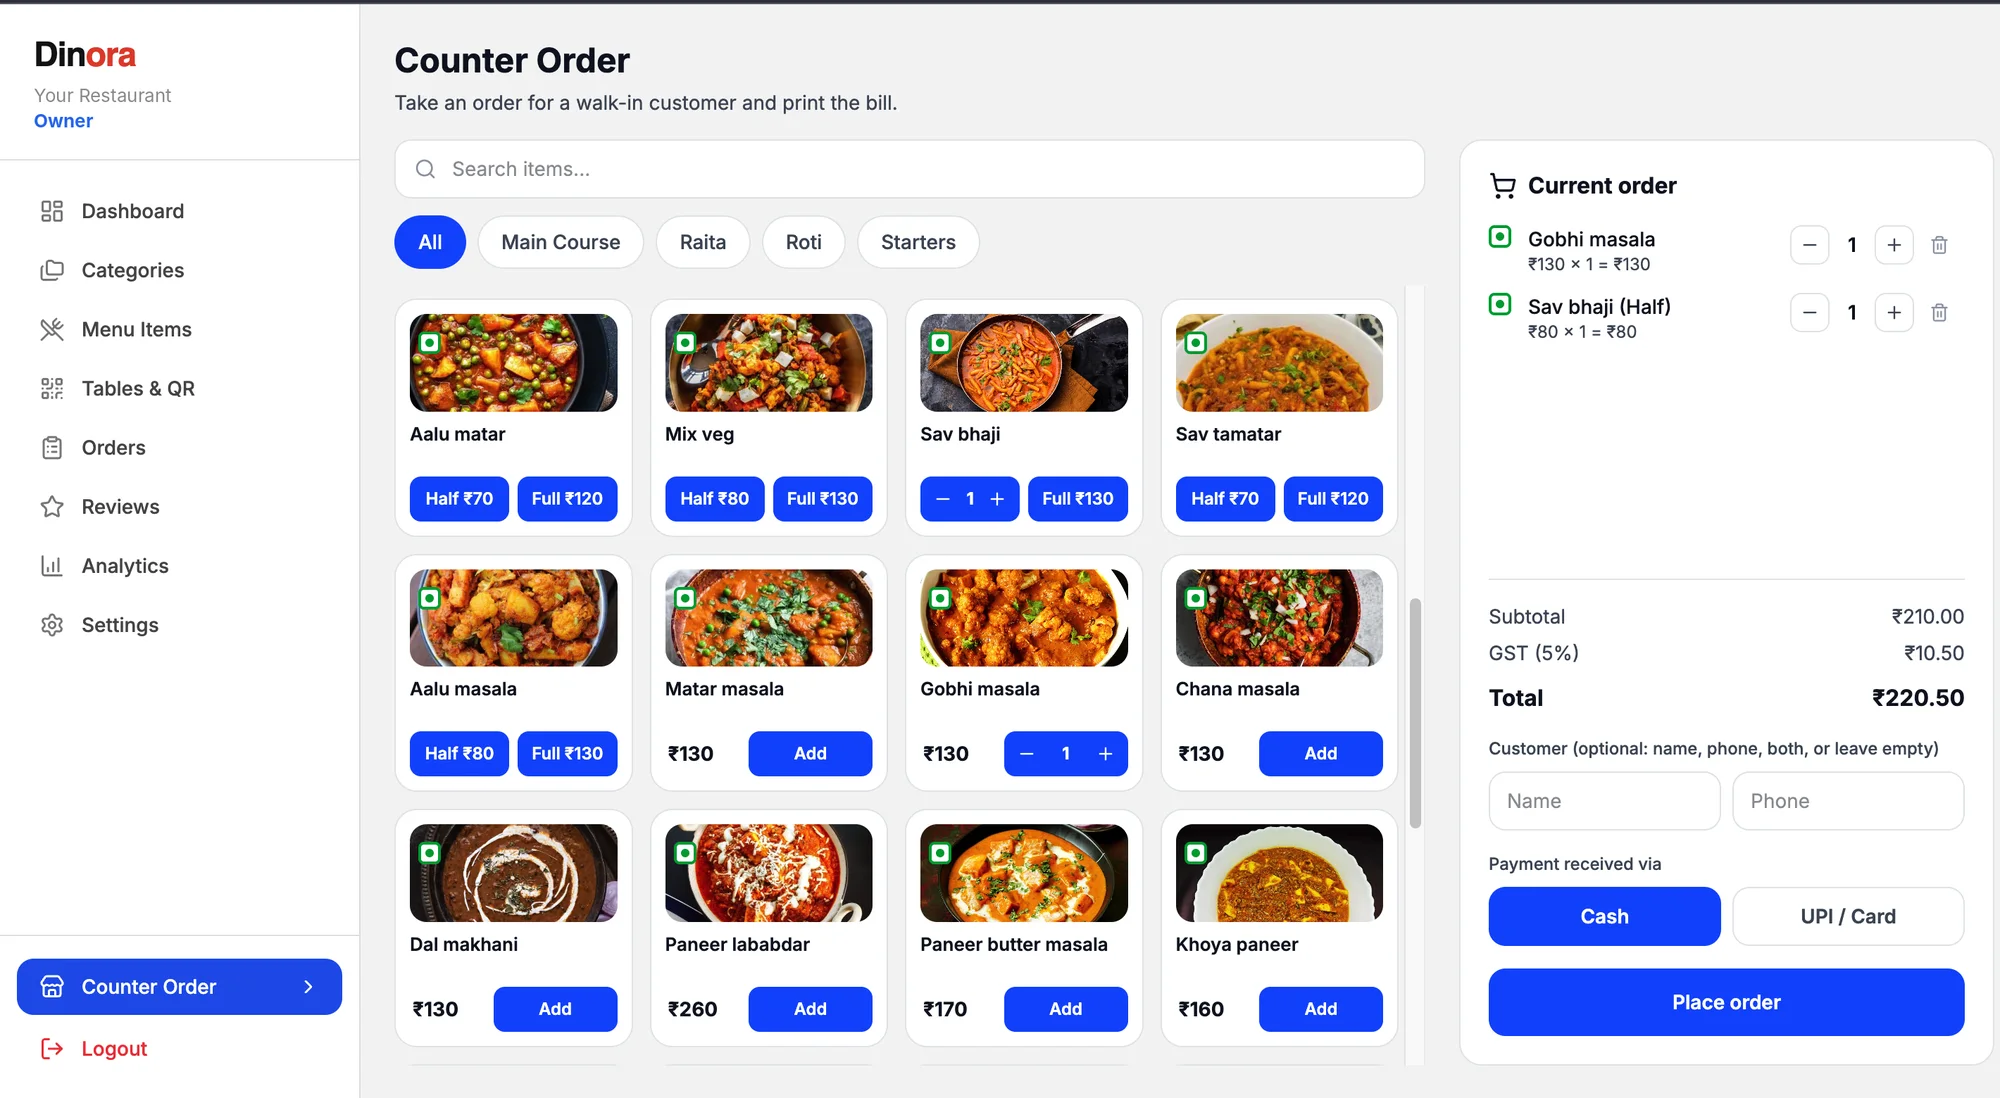
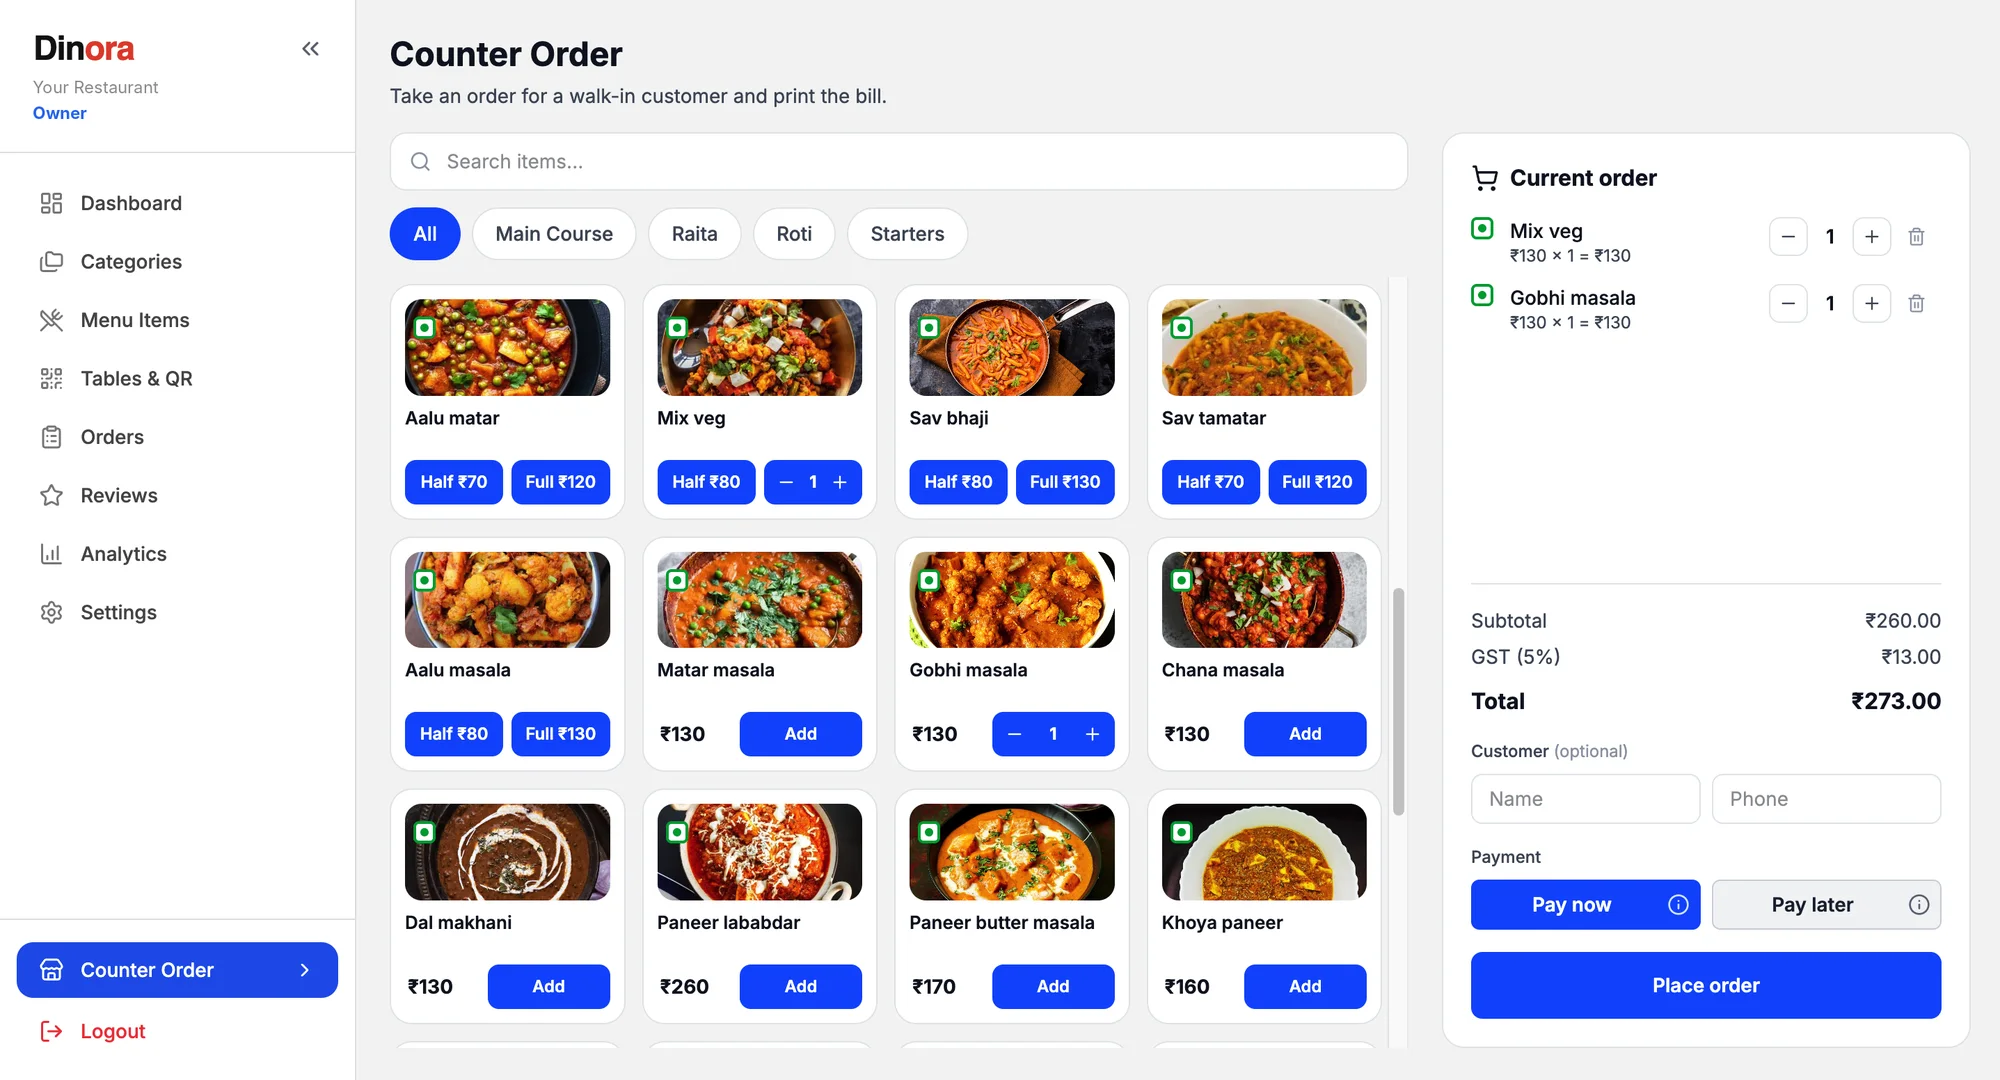
new

diff --git a/server/controllers/paymentController.js b/server/controllers/paymentController.js
@@ -27,14 +27,14 @@ const preflightCheck = async (req, res) => {
     if (restaurant.subscriptionPlan === "trial" || !restaurant.subscriptionPlan) {
       return res.status(400).json({
         success: false, code: "FEATURE_LOCKED",
-        message: "This restaurant hasn't activated online payments yet. Please pay by cash.",
+        message: "This restaurant hasn't activated online payments yet. Please choose Pay Later instead.",
       });
     }
 
     if (!restaurant.razorpayLinked || !restaurant.razorpayKeyId || !restaurant.razorpayKeySecret) {
       return res.status(400).json({
         success: false, code: "RAZORPAY_NOT_LINKED",
-        message: "This restaurant hasn't set up online payments yet. Please pay by cash.",
+        message: "This restaurant hasn't set up online payments yet. Please choose Pay Later instead.",
       });
     }
 
@@ -46,7 +46,7 @@ const preflightCheck = async (req, res) => {
       console.error("Preflight decrypt failed:", decErr.message);
       return res.status(400).json({
         success: false, code: "RAZORPAY_KEY_INVALID",
-        message: "This restaurant's payment setup needs attention. Please pay by cash.",
+        message: "This restaurant's payment setup needs attention. Please choose Pay Later instead.",
       });
     }
 
@@ -57,7 +57,7 @@ const preflightCheck = async (req, res) => {
       console.error("Preflight Razorpay auth failed:", rzErr?.error?.description || rzErr.message);
       return res.status(400).json({
         success: false, code: "RAZORPAY_KEY_INVALID",
-        message: "This restaurant's payment setup is currently invalid. Please pay by cash.",
+        message: "This restaurant's payment setup is currently invalid. Please choose Pay Later instead.",
       });
     }
 
@@ -79,10 +79,10 @@ const createPaymentOrder = async (req, res) => {
     }
 
     if (restaurant.subscriptionPlan === "trial" || !restaurant.subscriptionPlan) {
-      return res.status(400).json({ success: false, code: "FEATURE_LOCKED", message: "This restaurant hasn't activated online payments yet. Please pay by cash." });
+      return res.status(400).json({ success: false, code: "FEATURE_LOCKED", message: "This restaurant hasn't activated online payments yet. Please choose Pay Later instead." });
     }
     if (!restaurant.razorpayLinked || !restaurant.razorpayKeyId || !restaurant.razorpayKeySecret) {
-      return res.status(400).json({ success: false, code: "RAZORPAY_NOT_LINKED", message: "This restaurant hasn't set up online payments yet. Please pay by cash." });
+      return res.status(400).json({ success: false, code: "RAZORPAY_NOT_LINKED", message: "This restaurant hasn't set up online payments yet. Please choose Pay Later instead." });
     }
 
     let decryptedSecret;
@@ -91,7 +91,7 @@ const createPaymentOrder = async (req, res) => {
       if (!decryptedSecret) throw new Error("empty");
     } catch (decErr) {
       console.error("createPaymentOrder decrypt failed:", decErr.message);
-      return res.status(400).json({ success: false, code: "RAZORPAY_KEY_INVALID", message: "This restaurant's payment setup is invalid. Please pay by cash." });
+      return res.status(400).json({ success: false, code: "RAZORPAY_KEY_INVALID", message: "This restaurant's payment setup is invalid. Please choose Pay Later instead." });
     }
 
     // charge only for the specific order being paid — not all unpaid orders
@@ -118,7 +118,7 @@ const createPaymentOrder = async (req, res) => {
       });
     } catch (rzErr) {
       console.error("Razorpay order creation failed:", rzErr?.error?.description || rzErr.message);
-      return res.status(400).json({ success: false, code: "RAZORPAY_KEY_INVALID", message: "Payment setup is currently invalid. Please pay by cash." });
+      return res.status(400).json({ success: false, code: "RAZORPAY_KEY_INVALID", message: "Payment setup is currently invalid. Please choose Pay Later instead." });
     }
 
     res.json({ success: true, order, keyId: restaurant.razorpayKeyId });
@@ -197,7 +197,7 @@ const requestCashPayment = async (req, res) => {
       { sessionId, status: { $nin: ["Cancelled", "Completed"] } },
       { paymentMethod: "cash" }
     );
-    res.json({ success: true, message: "Cash payment requested" });
+    res.json({ success: true, message: "Pay Later requested" });
   } catch (error) {
     res.status(500).json({ success: false, code: "SERVER_ERROR", message: process.env.NODE_ENV === "production" ? "Something went wrong" : error.message });
   }

diff --git a/client/src/components/customer/PaymentModal.jsx b/client/src/components/customer/PaymentModal.jsx
@@ -28,7 +28,7 @@ export default function PaymentModal({ sessionId, onClose, onSuccess }) {
     setPaying(true);
     try {
       if (total < 1) {
-        toast.error("Total must be at least ₹1 to pay online.");
+        toast.error("Total must be at least ₹1 to pay now.");
         setPaying(false);
         return;
       }
@@ -86,7 +86,7 @@ export default function PaymentModal({ sessionId, onClose, onSuccess }) {
     setPaying(true);
     try {
       await requestCashPaymentApi({ sessionId });
-      toast.success("Cash payment recorded. Please pay at the counter.");
+      toast.success("Noted! Please pay after your meal.");
       onSuccess();
     } catch {
       toast.error("Something went wrong.");
@@ -147,7 +147,7 @@ export default function PaymentModal({ sessionId, onClose, onSuccess }) {
                 }`}
               >
                 <div className="text-2xl mb-1">💳</div>
-                <div className="text-white font-bold text-sm">Online</div>
+                <div className="text-white font-bold text-sm">Pay now</div>
                 <div className="text-slate-400 text-xs">UPI / Card / Net Banking</div>
               </button>
 
@@ -160,8 +160,8 @@ export default function PaymentModal({ sessionId, onClose, onSuccess }) {
                 }`}
               >
                 <div className="text-2xl mb-1">💵</div>
-                <div className="text-white font-bold text-sm">Cash</div>
-                <div className="text-slate-400 text-xs">Pay at counter</div>
+                <div className="text-white font-bold text-sm">Pay Later</div>
+                <div className="text-slate-400 text-xs">PAt the counter, after your meal</div>
               </button>
             </div>
 
@@ -171,21 +171,22 @@ export default function PaymentModal({ sessionId, onClose, onSuccess }) {
                 disabled={paying}
                 className="w-full py-4 bg-blue-600 hover:bg-blue-700 text-white rounded-xl font-bold text-base transition-all disabled:opacity-50"
               >
-                {paying ? "Opening payment..." : `Pay ₹${total} Online →`}
+                {paying ? "Opening payment..." : `Pay ₹${total} Now →`}
               </button>
             )}
 
             {payMethod === "cash" && (
               <div className="space-y-3">
                 <div className="bg-amber-500/10 border border-amber-500/20 rounded-xl p-3 text-amber-300 text-sm text-center">
-                  Please visit the counter to pay ₹{total} in cash
+                  {/* Please visit the counter to pay ₹{total} in cash */}
+                  Please pay ₹{total} after your meal
                 </div>
                 <button
                   onClick={handleCashPayment}
                   disabled={paying}
                   className="w-full py-4 bg-green-600 hover:bg-green-700 text-white rounded-xl font-bold text-base transition-all disabled:opacity-50"
                 >
-                  {paying ? "Recording..." : "Confirm Cash Payment →"}
+                  {paying ? "Recording..." : "Confirm Pay Later →"}
                 </button>
               </div>
             )}

diff --git a/client/src/pages/LandingPage.jsx b/client/src/pages/LandingPage.jsx
@@ -55,7 +55,7 @@ const FEATURES = [
 
   { icon: Receipt, title: "GST-ready bills", desc: "Print bills with CGST and SGST. Don't charge GST? Set it to 0% and the bill drops every tax line." },
 
-  { icon: CreditCard, title: "Your money, your account", desc: "Link your own Razorpay. Online payments settle straight to you. Or they Pay Later at the counter." },
+  { icon: CreditCard, title: "Your money, your account", desc: "Link your own Razorpay. Online payments settle straight to you. Or they Pay Later after dining." },
 
   { icon: Link2, title: "A link of your own", desc: "Your restaurant gets its own address, like dinora.in/your-restaurant, to share anywhere." },
 
@@ -94,7 +94,7 @@ const FAQS = [
 
   { q: "Can I take orders at the counter too?", a: "Yes. The Counter Order screen lets your staff add items for a walk-in customer and print the bill. These orders count in your revenue like any other." },
 
-  { q: "How do online payments work?", a: "You link your own Razorpay account. Guests pay online and the money goes straight to you or Pay Later (they pay at the counter after their meal). Your dashboard keeps the two separate." },
+  { q: "How do payments work?", a: "You link your own Razorpay account. Guests pay online and the money goes straight to you or Pay Later (they pay at the counter after their meal). Your dashboard keeps the two separate." },
 
   { q: "I don't charge GST. Can I turn it off?", a: "Yes. Set GST to 0% in Settings and your bills will show no GST, CGST or SGST lines at all." },
 

diff --git a/client/src/pages/restaurant/Analytics.jsx b/client/src/pages/restaurant/Analytics.jsx
@@ -134,9 +134,9 @@ export default function Analytics() {
 
   const paymentData = data
     ? [
-        { name: "Online", value: data.paymentSplit.online },
-        { name: "Cash", value: data.paymentSplit.cash },
-        { name: "Unpaid", value: data.paymentSplit.unpaid },
+        { name: "Paid before dining", value: data.paymentSplit.online },
+        { name: "Paid after dining", value: data.paymentSplit.cash },
+        { name: "Awaiting payment", value: data.paymentSplit.unpaid },
       ].filter((d) => d.value > 0)
     : [];
 
@@ -303,9 +303,9 @@ export default function Analytics() {
 
             <StatCard
               icon={<CreditCard className="w-5 h-5" />}
-              label="Online Paid"
+              label="Paid before dining"
               value={data.paymentSplit.online}
-              sub={`${data.paymentSplit.cash} cash`}
+              sub={`${data.paymentSplit.cash} paid after dining`}
               tone="warn"
             />
           </div>
@@ -444,7 +444,8 @@ export default function Analytics() {
             {/* Payment Split */}
             <div className="rounded-2xl border border-gray-200 bg-white p-5">
               <div className="text-gray-900 font-bold text-base mb-4">
-                Payment Methods
+                {/* Payment Methods */}
+                How guests paid
               </div>
 
               {paymentData.length === 0 ? (

diff --git a/client/src/components/cart/CartDrawer.jsx b/client/src/components/cart/CartDrawer.jsx
@@ -161,7 +161,7 @@ export default function CartDrawer({
     try {
       const payData = await createPaymentOrderPreflightApi({ restaurantId, amount: finalTotal });
       if (!payData.success) {
-        const tail = isKiosk ? "Please ask the staff for help." : "Please pay by cash.";
+        const tail = isKiosk ? "Please ask the staff for help." : "Please choose Pay Later instead.";
         const messages = {
           FEATURE_LOCKED: `This restaurant hasn't activated online payments yet. ${tail}`,
           RAZORPAY_NOT_LINKED: `This restaurant hasn't set up online payments yet. ${tail}`,
@@ -531,7 +531,7 @@ export default function CartDrawer({
                   <div className="w-11 h-11 rounded-xl bg-ok-soft text-ok flex items-center justify-center text-xl font-bold">₹</div>
                   <div className="text-left">
                     <div className="text-ink font-bold text-sm">{payingCash ? "Processing..." : "Pay Later"}</div>
-                    <div className="text-muted text-xs">Hand over ₹{finalTotal.toFixed(2)} to staff</div>
+                    <div className="text-muted text-xs">Pay ₹{finalTotal.toFixed(2)} after your meal</div>
                   </div>
                 </button>
               )}

diff --git a/server/models/Subscription.js b/server/models/Subscription.js
@@ -15,7 +15,8 @@ const PLANS = {
       "Printable kitchen slips with GST breakdown",
       "Table management",
       "Order history with date-range filtering",
-      "Cash and online payments (your own Razorpay)",
+      // "Cash and online payments (your own Razorpay)",
+      "Online payments (your own Razorpay) or pay later after dining",
       "Up to 15 tables",
     ],
   },
@@ -29,7 +30,8 @@ const PLANS = {
       "Customer reviews and dish ratings",
       "Top-rated dishes ranking",
       "Revenue and order trend charts for 7/14/30 days or custom range",
-      "Payment method breakdown (cash vs online)",
+      // "Payment method breakdown (cash vs online)",
+      "Paid after dining vs paid before dining breakdown",
       "Overall rating summary with star distribution",
       "Up to 30 tables",
     ],

diff --git a/client/src/config/plans.js b/client/src/config/plans.js
@@ -16,6 +16,7 @@ export const PLAN_FEATURES = {
     "Auto-assigned order tokens",
     "Your own restaurant link: dinora.in/your-restaurant",
     "Cash and online payments (your own Razorpay)",
+    // "Online payments (your own Razorpay) or pay at the counter",
     "Order history with date filters",
     "Install as an app with push alerts for new orders",
   ],
@@ -25,7 +26,8 @@ export const PLAN_FEATURES = {
     "Customer reviews and dish ratings",
     "Top-rated dishes ranking",
     "Revenue and order trend analytics",
-    "Cash vs online payment breakdown",
+    // "Cash vs online payment breakdown",
+    "Paid before dining vs paid after dining breakdown",
     "Up to 30 tables",
   ],
 };

diff --git a/client/src/components/cart/TokenScreen.jsx b/client/src/components/cart/TokenScreen.jsx
@@ -51,7 +51,8 @@ export default function TokenScreen({ token, amount, paid, tableName, seconds = 
         </div>
         {!paid && (
           <p className="text-muted text-xs leading-relaxed pt-2 border-t border-dashed border-line">
-            Please pay cash to the staff at your table or at the counter. Your bill closes once payment is confirmed.
+            {/* Please pay cash to the staff at your table or at the counter. Your bill closes once payment is confirmed. */}
+            Please pay after your meal. Your bill closes once the restaurant confirms your payment.
           </p>
         )}
       </div>

diff --git a/client/src/config/payment.js b/client/src/config/payment.js
@@ -1,0 +1,9 @@
+// What staff and customers SEE for each payment. DB values stay "online" / "cash".
+//   online → paid on the spot through Razorpay
+//   cash   → guest pays at the counter after the meal (cash or UPI, we can't know which)
+export const PAY_WORDS = {
+  online: { short: "Online", done: "Paid online" },
+  cash: { short: "At counter", done: "Paid at counter" },
+};
+export const payShort = (method) => PAY_WORDS[method]?.short ?? "—";
+export const payDone = (method) => PAY_WORDS[method]?.done ?? "—";

diff --git a/client/src/pages/restaurant/Dashboard.jsx b/client/src/pages/restaurant/Dashboard.jsx
@@ -243,7 +243,7 @@ export default function Dashboard() {
       <div className="grid grid-cols-2 lg:grid-cols-4 gap-3">
         <StatCard
           icon={<HandCoins className="w-5 h-5" />}
-          label="Cash to Collect"
+          label="Payments to Collect"
           value={`₹${cashPendingAmount.toLocaleString()}`}
           sub={`${cashPending.length} order${cashPending.length !== 1 ? "s" : ""} served, unpaid`}
           tone="ok"

diff --git a/client/src/pages/restaurant/Orders.jsx b/client/src/pages/restaurant/Orders.jsx
@@ -343,7 +343,7 @@ export default function Orders() {
               {cashPendingOrders.length}
             </div>
             <span className="text-gray-900 font-medium text-sm">
-              cash payment{cashPendingOrders.length > 1 ? "s" : ""} waiting confirmation
+              payment{cashPendingOrders.length > 1 ? "s" : ""} to collect
             </span>
           </div>
           <button
